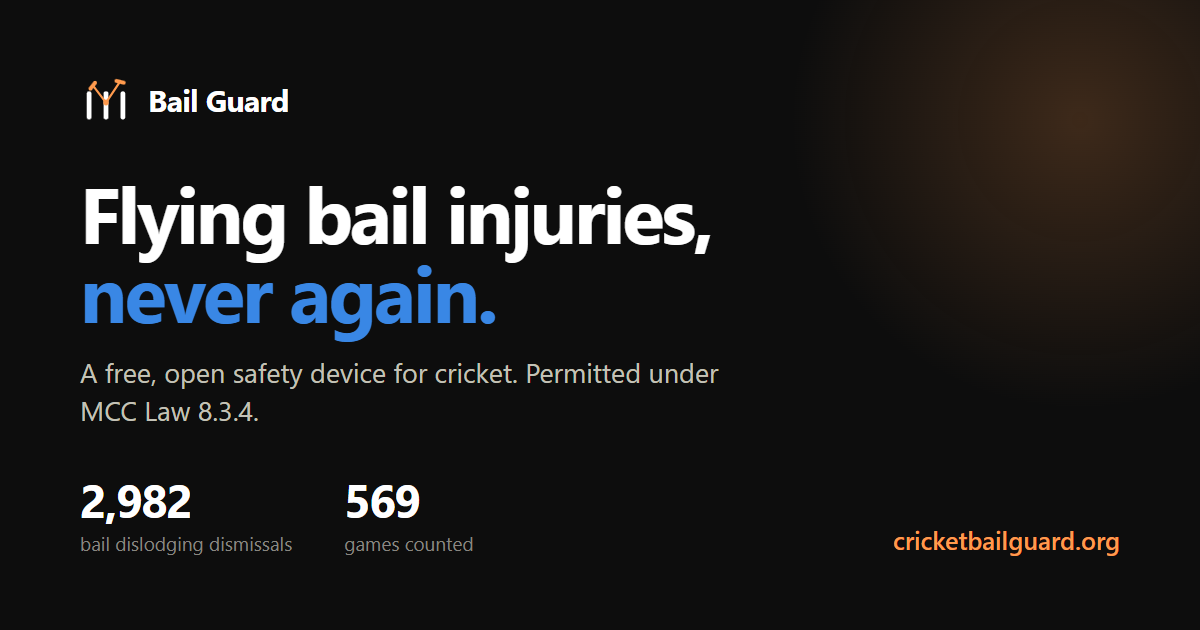
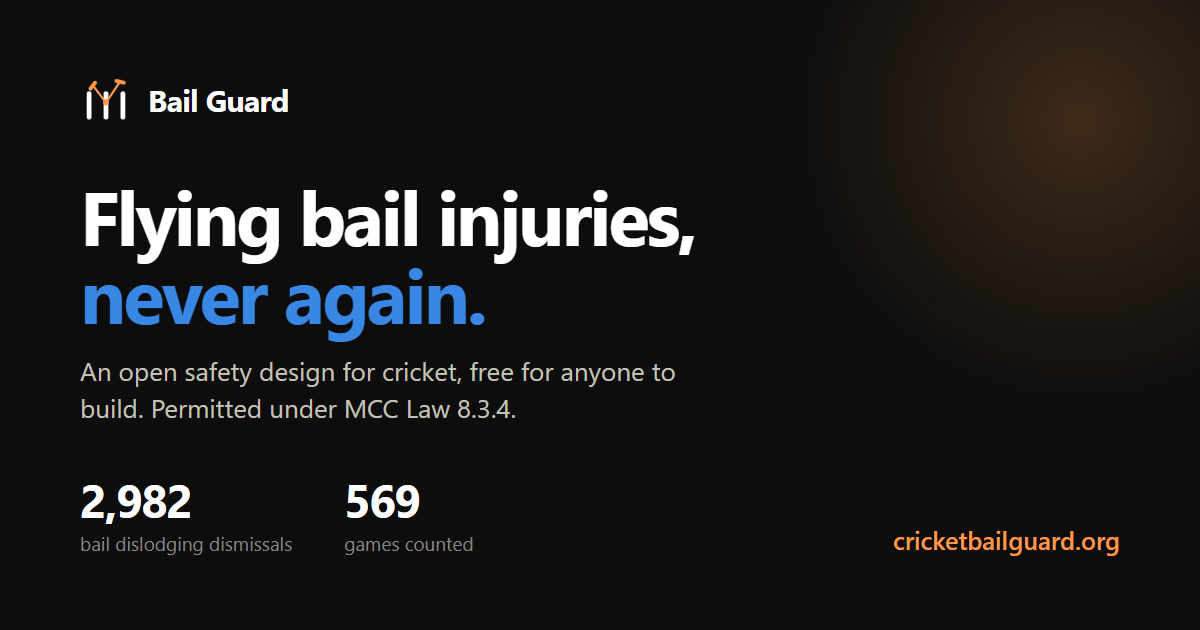
Clarify that the design is free, not the physical device
Kuljit Singh Nijjar pointed out that "A free, open safety device for
cricket" reads as though the device itself ships free of charge. Reworded
the hero, the lede, and every social/meta description to say the design is
free to build from, which is what is actually true.

The eyebrow joins its two halves with a comma rather than a dash, so that
the phrase still reads correctly when it stacks onto two lines on a phone.

Bumps the styles.css and app.js cache-bust to v=2 so returning phones pick
up the new stylesheet.

Normalizes index.html line endings to LF to match the other pages.

Changed region(s): [[0.0617, 0.3016, 0.6167, 0.4222], [0.0617, 0.573, 0.6167, 0.6937], [0.0617, 0.4222, 0.4317, 0.5429]]

diff --git a/index.html b/index.html
@@ -4,7 +4,7 @@
 <meta charset="utf-8">
 <meta name="viewport" content="width=device-width, initial-scale=1">
 <title>Bail Guard: flying cricket bail injuries, never again</title>
-<meta name="description" content="A free, open, retrofit safety device that stops cricket bails flying off the stumps. Complies with MCC Law 8.3.4. Field tested across hundreds of competitive games.">
+<meta name="description" content="An open safety design for cricket, free for anyone to build. A bail guard tethers the bails so they cannot become projectiles. Complies with MCC Law 8.3.4.">
 <link rel="canonical" href="https://cricketbailguard.org/">
 
 <link rel="icon" href="/favicon.svg" type="image/svg+xml">
@@ -16,15 +16,15 @@
 <meta property="og:type" content="website">
 <meta property="og:site_name" content="Bail Guard">
 <meta property="og:title" content="Bail Guard: flying cricket bail injuries, never again">
-<meta property="og:description" content="A free, open, retrofit safety device that stops cricket bails flying off the stumps. Complies with MCC Law 8.3.4. Field tested across hundreds of competitive games.">
+<meta property="og:description" content="An open safety design for cricket, free for anyone to build. A bail guard tethers the bails so they cannot become projectiles. Complies with MCC Law 8.3.4.">
 <meta property="og:url" content="https://cricketbailguard.org/">
 <meta property="og:image" content="https://cricketbailguard.org/images/og-cover.png">
 <meta property="og:image:width" content="1200">
 <meta property="og:image:height" content="630">
-<meta property="og:image:alt" content="Bail Guard. Flying bail injuries, never again. A free, open safety device for cricket.">
+<meta property="og:image:alt" content="Bail Guard. Flying bail injuries, never again. An open safety design for cricket, free for anyone to build.">
 <meta name="twitter:card" content="summary_large_image">
 <meta name="twitter:title" content="Bail Guard: flying cricket bail injuries, never again">
-<meta name="twitter:description" content="A free, open, retrofit safety device that stops cricket bails flying off the stumps. Complies with MCC Law 8.3.4. Field tested across hundreds of competitive games.">
+<meta name="twitter:description" content="An open safety design for cricket, free for anyone to build. A bail guard tethers the bails so they cannot become projectiles. Complies with MCC Law 8.3.4.">
 <meta name="twitter:image" content="https://cricketbailguard.org/images/og-cover.png">
 
 <script type="application/ld+json">
@@ -37,7 +37,7 @@
       "name": "Bail Guard",
       "url": "https://cricketbailguard.org",
       "logo": "https://cricketbailguard.org/apple-touch-icon.png",
-      "description": "An open, free safety device that tethers cricket bails so they cannot fly off the stumps.",
+      "description": "An open safety design for cricket. A bail guard tethers the bails so they cannot fly off the stumps. The design is published free for anyone to build.",
       "founder": [
         { "@type": "Person", "name": "Aashi Anup" },
         { "@type": "Person", "name": "Anish Anup" }
@@ -70,7 +70,7 @@
 }
 </script>
 
-<link rel="stylesheet" href="styles.css?v=1">
+<link rel="stylesheet" href="styles.css?v=2">
 <script>try{var t=localStorage.getItem('bg-theme');if(t)document.documentElement.setAttribute('data-theme',t)}catch(e){}</script>
 </head>
 <body>
@@ -107,13 +107,13 @@
 <main id="main">
 
 <header class="hero"><div class="wrap">
-  <span class="eyebrow">A free, open safety device for cricket</span>
+  <span class="eyebrow"><span class="eb-a">An open safety design for cricket,</span> <span class="eb-b">free for anyone to build</span></span>
   <h1 class="vision">Flying bail injuries, <em>never again.</em></h1>
   <p class="lede">
-    A <b>bail guard</b> is a small device that tethers the bails on a <b>cricket</b> wicket.
-    They still lift and fall normally, they just cannot fly. It fits the stumps
-    you already own, costs a few dollars, and the design is published free for
-    anyone to build.
+    A <b>bail guard</b> is a simple device that tethers <b>cricket</b> bails to the wicket,
+    allowing them to lift and fall normally while preventing them from becoming
+    dangerous projectiles. The design is freely published and available for
+    anyone to build, use, manufacture or improve.
   </p>
 
   <div class="stats">
@@ -367,6 +367,6 @@
   <p style="margin-top:.5rem">Data last updated <span data-bg="updated">9 August 2026</span>.</p>
 </div></footer>
 
-<script src="app.js?v=1"></script>
+<script src="app.js?v=2"></script>
 </body>
 </html>

diff --git a/story.html b/story.html
@@ -4,7 +4,7 @@
 <meta charset="utf-8">
 <meta name="viewport" content="width=device-width, initial-scale=1">
 <title>Our story: Bail Guard</title>
-<meta name="description" content="250 years of the cricket wicket, the injuries that changed the Laws, and how two students in Frisco built a free fix.">
+<meta name="description" content="250 years of the cricket wicket, the injuries that changed the Laws, and how two students in Frisco published an open design that anyone can build.">
 <link rel="canonical" href="https://cricketbailguard.org/story.html">
 
 <link rel="icon" href="/favicon.svg" type="image/svg+xml">
@@ -16,18 +16,18 @@
 <meta property="og:type" content="website">
 <meta property="og:site_name" content="Bail Guard">
 <meta property="og:title" content="Our story: Bail Guard">
-<meta property="og:description" content="250 years of the cricket wicket, the injuries that changed the Laws, and how two students in Frisco built a free fix.">
+<meta property="og:description" content="250 years of the cricket wicket, the injuries that changed the Laws, and how two students in Frisco published an open design that anyone can build.">
 <meta property="og:url" content="https://cricketbailguard.org/story.html">
 <meta property="og:image" content="https://cricketbailguard.org/images/og-cover.png">
 <meta property="og:image:width" content="1200">
 <meta property="og:image:height" content="630">
-<meta property="og:image:alt" content="Bail Guard. Flying bail injuries, never again. A free, open safety device for cricket.">
+<meta property="og:image:alt" content="Bail Guard. Flying bail injuries, never again. An open safety design for cricket, free for anyone to build.">
 <meta name="twitter:card" content="summary_large_image">
 <meta name="twitter:title" content="Our story: Bail Guard">
-<meta name="twitter:description" content="250 years of the cricket wicket, the injuries that changed the Laws, and how two students in Frisco built a free fix.">
+<meta name="twitter:description" content="250 years of the cricket wicket, the injuries that changed the Laws, and how two students in Frisco published an open design that anyone can build.">
 <meta name="twitter:image" content="https://cricketbailguard.org/images/og-cover.png">
 
-<link rel="stylesheet" href="styles.css?v=1">
+<link rel="stylesheet" href="styles.css?v=2">
 <script>try{var t=localStorage.getItem('bg-theme');if(t)document.documentElement.setAttribute('data-theme',t)}catch(e){}</script>
 </head>
 <body>
@@ -187,6 +187,6 @@
      <a href="get-one.html">Get involved</a></p>
 </div></footer>
 
-<script src="app.js?v=1"></script>
+<script src="app.js?v=2"></script>
 </body>
 </html>

diff --git a/styles.css b/styles.css
@@ -66,7 +66,13 @@ section{padding:clamp(3.2rem,6vw,5rem) 0}
 
 /* hero */
 .hero{padding:clamp(2.8rem,6vw,4.2rem) 0 clamp(1.8rem,3vw,2.4rem);text-align:center}
-.eyebrow{display:inline-flex;align-items:center;gap:.5rem;font-size:.77rem;font-weight:650;letter-spacing:.05em;text-transform:uppercase;color:var(--accent);background:color-mix(in srgb,var(--accent) 10%,transparent);border:1px solid color-mix(in srgb,var(--accent) 24%,transparent);padding:.32rem .78rem;border-radius:999px}
+.eyebrow{display:inline-block;font-size:.88rem;font-weight:600;letter-spacing:.005em;color:var(--accent);background:color-mix(in srgb,var(--accent) 10%,transparent);border:1px solid color-mix(in srgb,var(--accent) 24%,transparent);padding:.38rem .95rem;border-radius:999px;white-space:nowrap}
+@media (max-width:620px){
+  /* break at the comma rather than mid phrase: the comma stays visible so the
+     first line reads as continuing rather than as a standalone fragment */
+  .eyebrow{white-space:normal;line-height:1.4;text-align:center;padding:.5rem 1rem}
+  .eyebrow .eb-a,.eyebrow .eb-b{display:block}
+}
 .vision{font-size:clamp(2rem,4.5vw,3.3rem);font-weight:720;letter-spacing:-.038em;line-height:1.06;margin:1.1rem auto 0;text-wrap:balance}
 .vision em{font-style:normal;color:var(--accent)}
 .lede{font-size:clamp(1.02rem,1.6vw,1.18rem);color:var(--ink-2);max-width:60ch;margin:1.1rem auto 0}

diff --git a/get-one.html b/get-one.html
@@ -21,13 +21,13 @@
 <meta property="og:image" content="https://cricketbailguard.org/images/og-cover.png">
 <meta property="og:image:width" content="1200">
 <meta property="og:image:height" content="630">
-<meta property="og:image:alt" content="Bail Guard. Flying bail injuries, never again. A free, open safety device for cricket.">
+<meta property="og:image:alt" content="Bail Guard. Flying bail injuries, never again. An open safety design for cricket, free for anyone to build.">
 <meta name="twitter:card" content="summary_large_image">
 <meta name="twitter:title" content="Get a bail guard">
 <meta name="twitter:description" content="How to make, obtain or manufacture bail guards. The design is free and open, and we sell nothing.">
 <meta name="twitter:image" content="https://cricketbailguard.org/images/og-cover.png">
 
-<link rel="stylesheet" href="styles.css?v=1">
+<link rel="stylesheet" href="styles.css?v=2">
 <script>try{var t=localStorage.getItem('bg-theme');if(t)document.documentElement.setAttribute('data-theme',t)}catch(e){}</script>
 </head>
 <body>
@@ -143,6 +143,6 @@
      <a href="story.html">Our story</a></p>
 </div></footer>
 
-<script src="app.js?v=1"></script>
+<script src="app.js?v=2"></script>
 </body>
 </html>

diff --git a/contributors.html b/contributors.html
@@ -21,13 +21,13 @@
 <meta property="og:image" content="https://cricketbailguard.org/images/og-cover.png">
 <meta property="og:image:width" content="1200">
 <meta property="og:image:height" content="630">
-<meta property="og:image:alt" content="Bail Guard. Flying bail injuries, never again. A free, open safety device for cricket.">
+<meta property="og:image:alt" content="Bail Guard. Flying bail injuries, never again. An open safety design for cricket, free for anyone to build.">
 <meta name="twitter:card" content="summary_large_image">
 <meta name="twitter:title" content="Contributors: Bail Guard">
 <meta name="twitter:description" content="The people, clubs, leagues and umpires who made the bail guard real.">
 <meta name="twitter:image" content="https://cricketbailguard.org/images/og-cover.png">
 
-<link rel="stylesheet" href="styles.css?v=1">
+<link rel="stylesheet" href="styles.css?v=2">
 <script>try{var t=localStorage.getItem('bg-theme');if(t)document.documentElement.setAttribute('data-theme',t)}catch(e){}</script>
 </head>
 <body>
@@ -117,6 +117,6 @@
      <a href="get-one.html">Get involved</a></p>
 </div></footer>
 
-<script src="app.js?v=1"></script>
+<script src="app.js?v=2"></script>
 </body>
 </html>

diff --git a/404.html b/404.html
@@ -11,7 +11,7 @@
 <link rel="apple-touch-icon" href="/apple-touch-icon.png">
 <meta name="theme-color" content="#0d0d0d" media="(prefers-color-scheme: dark)">
 <meta name="theme-color" content="#f9f9f7" media="(prefers-color-scheme: light)">
-<link rel="stylesheet" href="/styles.css?v=1">
+<link rel="stylesheet" href="/styles.css?v=2">
 <script>try{var t=localStorage.getItem('bg-theme');if(t)document.documentElement.setAttribute('data-theme',t)}catch(e){}</script>
 </head>
 <body>
@@ -69,6 +69,6 @@
      <a href="/get-one.html">Get involved</a></p>
 </div></footer>
 
-<script src="/app.js?v=1"></script>
+<script src="/app.js?v=2"></script>
 </body>
 </html>
